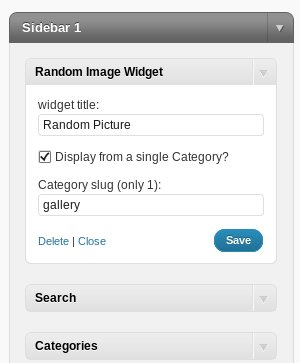
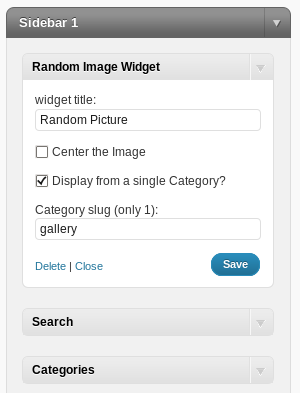
allow you to center the image
git-svn-id: http://plugins.svn.wordpress.org/random-image-block/trunk@209642 b8457f37-d9ea-0310-8a92-e5e31aec5664

diff --git a/random-image-block.php b/random-image-block.php
@@ -3,7 +3,7 @@
 Plugin Name: Random Image Block
 Plugin URI: http://mattrude.com/projects/random-image-block/
 Description: Display a random image from your native WordPress photo galley or in-beaded images.
-Version: 0.5
+Version: 0.6
 Author: Matt Rude
 Author URI: http://mattrude.com/
 */
@@ -27,10 +27,17 @@ class random_image_widget extends WP_Widget {
     $riw_widget_title = empty($instance['widget_title']) ? '&nbsp;' : apply_filters('widget_title', $instance['widget_title']);
     $riw_cat_single = empty($instance['single_category']) ? 'off' : apply_filters('single_category', $instance['single_category']);
     $riw_cat_slug = empty($instance['gallery_category']) ? 'empty' : apply_filters('gallery_category', $instance['gallery_category']);
+    $riw_center = empty($instance['center']) ? 'off' : apply_filters('center', $instance['center']);
     global $wpdb;
 
     if ($riw_widget_title == "&nbsp;") {
       $riw_widget_title = __('Random Image','random-image-block');
+    }
+
+    if ($riw_center == "on") {
+      $riw_center_output = "align=center";
+    } else {
+      $riw_center_output = "";
     }
 
     $args = array(
@@ -67,14 +74,15 @@ class random_image_widget extends WP_Widget {
           $meta = wp_get_attachment_metadata($imgid);
 
           // construct the image
-            echo "{$before_widget}{$before_title}$riw_widget_title{$after_title}";
-            echo "<div class='random-image'>";
-              echo "<a href=".get_permalink( $imgid )." >";
-              echo "<img width='".$meta['sizes']['thumbnail']['width']."'  height='".$meta['sizes']['thumbnail']['height']."' src='".wp_get_attachment_thumb_url($imgid)."' alt='Random image: ".$attachment->post_title."' />";
-              echo "</a>";
-              echo "<p class='random-image-caption'><strong>$attachment->post_excerpt</strong></p>";
-              echo "<p class='random-image-album'><small>".__('Album:','random-image-block')." <a href=".get_permalink( $albumid ).">".get_the_title($albumid)."</a></small></p>";
-            echo "</div>";
+          echo "{$before_widget}{$before_title}$riw_widget_title{$after_title}";
+          echo "<div class='random-image'>";
+            echo "<p class='random-image-img' $riw_center_output >";
+            echo "<a href=".get_permalink( $imgid )." >";
+            echo "<img width='".$meta['sizes']['thumbnail']['width']."'  height='".$meta['sizes']['thumbnail']['height']."' src='".wp_get_attachment_thumb_url($imgid)."' alt='Random image: ".$attachment->post_title."' />";
+            echo "</a></p>";
+            echo "<p class='random-image-caption'><strong>$attachment->post_excerpt</strong></p>";
+            echo "<p class='random-image-album'><small>".__('Album:','random-image-block')." <a href=".get_permalink( $albumid ).">".get_the_title($albumid)."</a></small></p>";
+          echo "</div>";
           echo $after_widget;
           break;
 	}
@@ -87,14 +95,19 @@ class random_image_widget extends WP_Widget {
     $instance['widget_title'] = strip_tags($new_instance['widget_title']);
     $instance['single_category'] = strip_tags($new_instance['single_category']);
     $instance['gallery_category'] = strip_tags($new_instance['gallery_category']);
+    $instance['center'] = strip_tags($new_instance['center']);
     return $instance;
   }
   
   function form($instance) {
     $riw_widget_title = strip_tags($instance['widget_title']);
+    $riw_center = $instance['center'];
     $riw_cat_single = $instance['single_category'];
     $riw_cat_slug = strip_tags($instance['gallery_category']);
     ?><p><label for="<?php echo $this->get_field_id('widget_title'); ?>"><?php _e('widget title', 'random-image-block')?>:<input class="widefat" id="<?php echo $this->get_field_id('widget_title'); ?>" name="<?php echo $this->get_field_name('widget_title'); ?>" type="text" value="<?php echo attribute_escape($riw_widget_title); ?>" /></label></p>
+
+    <p><input class="checkbox" type="checkbox" <?php if ("$riw_center" == "on" ){echo 'checked="checked"';} ?> id="<?php echo $this->get_field_id('center'); ?>" name="<?php echo $this->get_field_name('center'); ?>" />
+    <label for="<?php echo $this->get_field_id('center'); ?>"><?php _e('Center the Image', 'random-image-block')?></label></p>
 
     <p><input class="checkbox" type="checkbox" <?php if ("$riw_cat_single" == "on" ){echo 'checked="checked"';} ?> id="<?php echo $this->get_field_id('single_category'); ?>" name="<?php echo $this->get_field_name('single_category'); ?>" />
     <label for="<?php echo $this->get_field_id('single_category'); ?>"><?php _e('Display from a single Category?', 'random-image-block')?></label></p>
